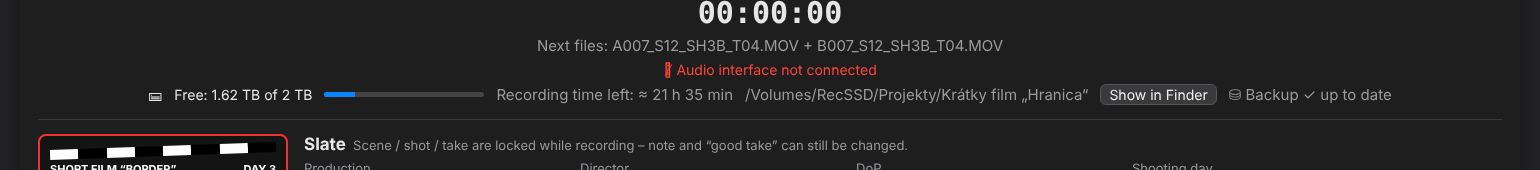
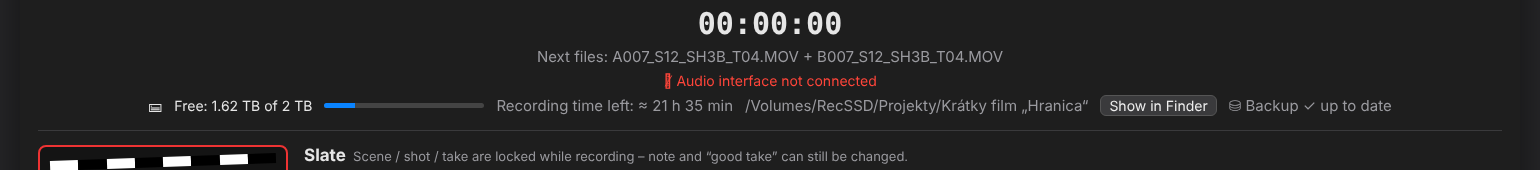
Record: with 'Audio interface only' the camera meters show the interface's channels
Claude-Session: https://claude.ai/code/session_01SjxyfTkJQH7RKsrkA8EJQA

diff --git a/DualCamRecorder/Views/RecordView.swift b/DualCamRecorder/Views/RecordView.swift
@@ -353,7 +353,9 @@ struct CameraPanel: View {
                 Text(channel.format?.displayString ?? "Format: —")
                     .font(.system(compact ? .callout : .body, design: .monospaced))
                     .lineLimit(1).truncationMode(.tail)
-                ChannelMetersView(meters: channel.meters, compact: compact)
+                // "Audio interface only": the files get the Focusrite's sound, so its meter replaces the camera's.
+                ChannelMetersView(meters: channel.meters, compact: compact,
+                                  interface: settings.audioInterfaceMode == .insteadOfSDI ? controller.audioInterface : nil)
                 if let error = channel.lastError {
                     Text(error).font(.callout).foregroundStyle(.red)
                 }
@@ -415,10 +417,16 @@ struct CameraPanel: View {
 struct ChannelMetersView: View {
     @ObservedObject var meters: ChannelMeters
     var compact: Bool
+    /// Set: the audio interface's channels are shown instead of the camera's SDI sound.
+    var interface: AudioInterfaceCapture? = nil
 
     var body: some View {
         let stats = meters.stats
-        AudioMeter(db: meters.audioLevelDB)
+        if let interface {
+            InterfaceChannelMeters(audio: interface)
+        } else {
+            AudioMeter(db: meters.audioLevelDB)
+        }
         if compact {
             // Numbers in one line.
             HStack(spacing: 14) {
@@ -696,8 +704,11 @@ struct AudioInterfaceStatus: View {
                 Image(systemName: "mic.fill").foregroundStyle(.secondary)
                 Text(running.name).foregroundStyle(.secondary).lineLimit(1)
                 VStack(spacing: 2) {
-                    ForEach(Array(audio.levelsDB.enumerated()), id: \.offset) { _, db in
-                        AudioMeter(db: db).frame(width: 90)
+                    ForEach(Array(audio.levelsDB.enumerated()), id: \.offset) { index, db in
+                        HStack(spacing: 4) {
+                            Text("\(index + 1)").font(.caption2.monospacedDigit()).foregroundStyle(.secondary)
+                            AudioMeter(db: db).frame(width: 90)
+                        }
                     }
                 }
                 if delayMs != 0 {
@@ -708,6 +719,34 @@ struct AudioInterfaceStatus: View {
         } else {
             Label(audio.problem ?? "Audio interface not connected", systemImage: "mic.slash.fill")
                 .foregroundStyle(.red)
+        }
+    }
+}
+
+/// Under each camera picture in "Audio interface only": one meter per Focusrite channel (1, 2 …), as wide as the
+/// camera meter it replaces; red note when the interface is missing.
+struct InterfaceChannelMeters: View {
+    @ObservedObject var audio: AudioInterfaceCapture
+
+    var body: some View {
+        if audio.running != nil {
+            VStack(spacing: 2) {
+                ForEach(Array(audio.levelsDB.enumerated()), id: \.offset) { index, db in
+                    HStack(spacing: 6) {
+                        Text("\(index + 1)").font(.caption2.monospacedDigit()).foregroundStyle(.secondary)
+                            .frame(width: 10)
+                        AudioMeter(db: db)
+                    }
+                }
+            }
+            .help("Sound from \(audio.running?.name ?? "the audio interface") – recorded into this camera's file")
+        } else {
+            HStack(spacing: 6) {
+                Image(systemName: "mic.slash.fill")
+                Text("Audio interface not connected").lineLimit(1)
+            }
+            .font(.caption)
+            .foregroundStyle(.red)
         }
     }
 }

diff --git a/README.md b/README.md
@@ -157,6 +157,8 @@ Rozhranie aplikácie je **v angličtine** (Record / Playback / Slate …); tento
   rozhrania a kamier priebežne dorovnáva (najviac 20 ms).
 - **Sound delay (ms):** posun zvuku voči obrazu – kladná hodnota zvuk oneskorí (zvuk predbieha obraz,
   tlesknutie počuť skôr, ako ho vidno), záporná ho posunie skôr. 1 snímka = 40 ms pri 25p. Platí od ďalšieho záberu.
+- Pri *Audio interface only* je pod obrazom každej kamery namiesto meradla zvuku zo SDI meradlo kanálov
+  rozhrania (1, 2 …) – to, čo sa naozaj zapisuje do súboru.
 - Record ukazuje meradlo každého kanála; keď rozhranie chýba, svieti červené *Audio interface not connected*
   (záber sa nahrá len so zvukom z kamier). Po odpojení a pripojení sa rozhranie samo znova spustí.
 - Pri prvom použití sa macOS opýta na prístup k mikrofónu (audio vstupom) – treba povoliť.
